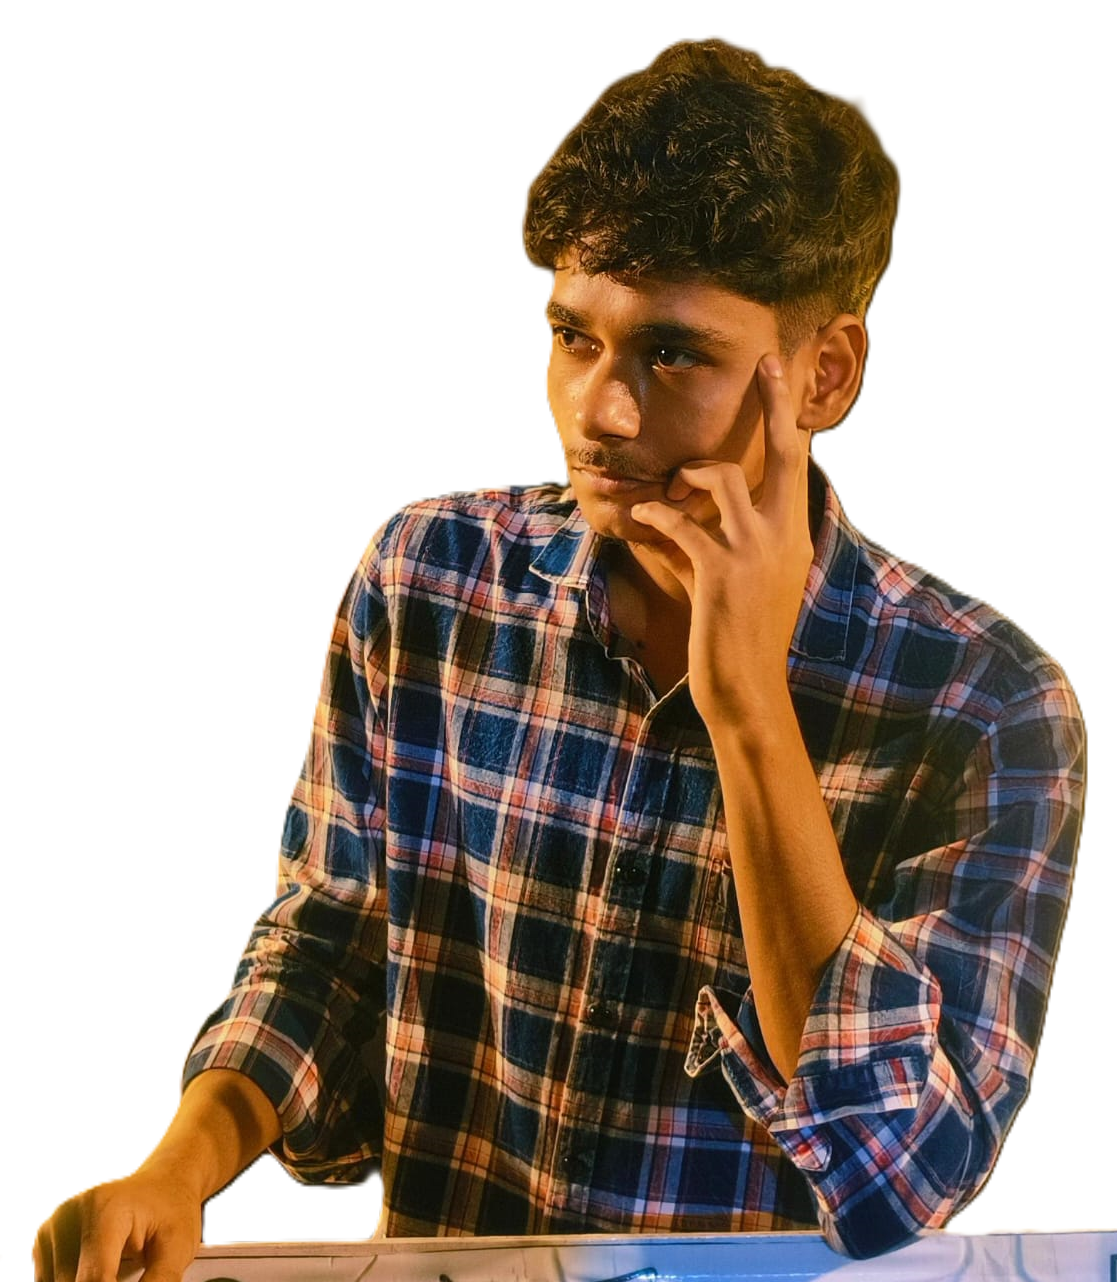
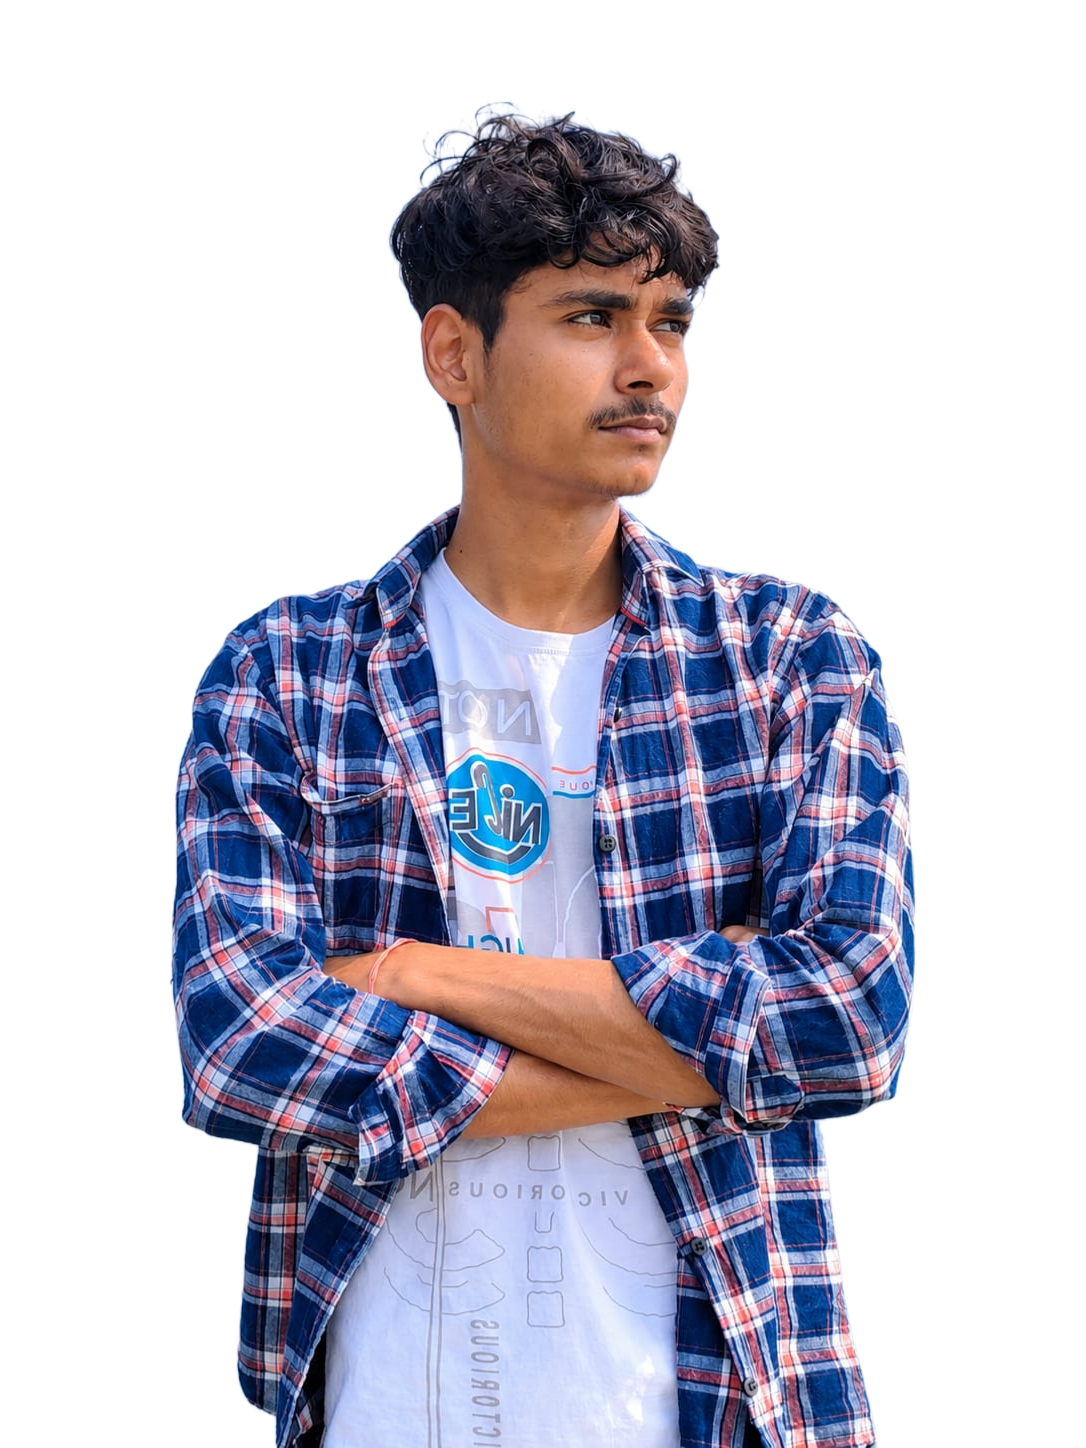
changed devers page photos

diff --git a/frontend/src/components/dev/DevCard.tsx b/frontend/src/components/dev/DevCard.tsx
@@ -22,7 +22,7 @@ function DevCard({ developer, index }: DevCardProps) {
     >
       <div className="dev-card-top">
         <span className="dev-card-number">
-          Soldier {developer.number}
+          Frontman {developer.number}
         </span>
 
         <span className="dev-card-symbol">
